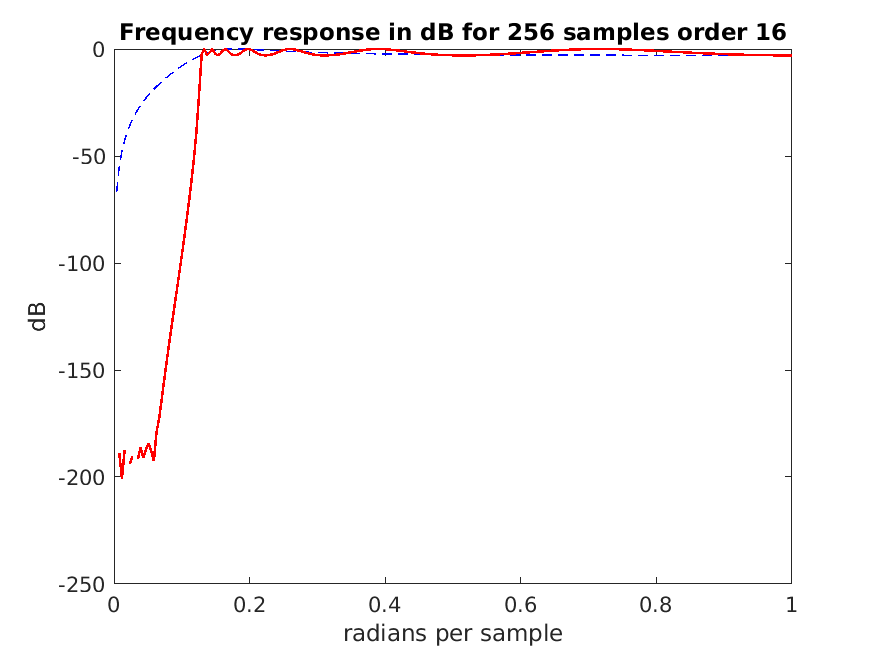
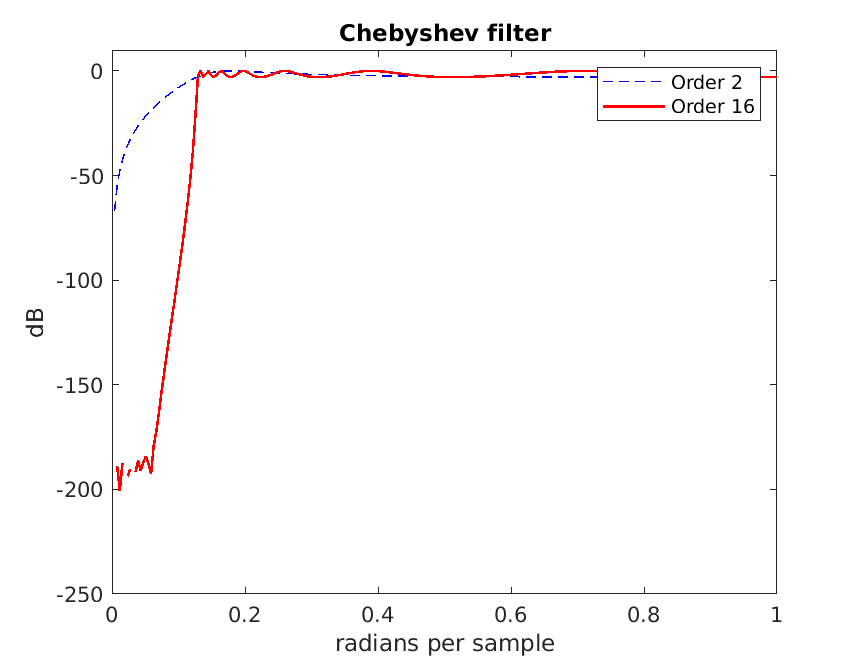
changed details

diff --git a/Seira3/Ask3.m b/Seira3/Ask3.m
@@ -3,6 +3,8 @@ clear all; clc;
 
 %%% filter from Ask1.m %%%
 fs = 10000;
+N=500;
+f = [-fs/2:fs/N:fs/2-fs/N]; % For frequency respones
 Ts = 1/fs;
 Wp = 2*pi*3000;     % Frequency passband rad/s
 Ws = 2*pi*4000;     % Frequency stopband rad/s
@@ -18,15 +20,29 @@ delta_s = 30;       % Attenuation
 
 samples = linspace(0, 499, 500);                                      %works like discrete time domain
 x1=1+cos(1000*samples*Ts)+cos(1600*samples*Ts)+cos(30000*samples*Ts); %signal x sampled
-figure();
+figure(1);
+subplot(2, 1, 1)
 stem(samples, x1);
 xlabel("n");
 ylabel("x(n)");
-title("Original x signal");
+title("Original x signal on time domain");
+X1 = fft(x1);
+subplot(2, 1, 2)
+stem(f, fftshift(X1));
+xlabel("F");
+ylabel("x(F)");
+title("Original x signal on frequency domain");
 
 x_filtered = filter(NUMz, DENz, x1);
-figure();
+figure(2);
+subplot(2, 1, 1);
 stem(samples, x_filtered);
+title("Filtered with att. band 30 db");
+xlabel("n")
+ylabel("x_{filtered}(n)")
+X_filtered = fft(x_filtered);
+subplot(2, 1, 2)
+stem(f, fftshift(X_filtered))
 title("Filtered with att. band 30 db")
 xlabel("n")
 ylabel("x_{filtered}(n)")
@@ -41,13 +57,20 @@ delta_s = 50;
 
 
 x_filtered2 = filter(NUMz, DENz, x1);
-figure();
+figure(3);
+subplot(2, 1, 1)
 stem(samples, x_filtered);
 title("Filtered with att. band 50 db")
 xlabel("n")
 ylabel("x_{filtered}(n)")
+X_filtered2 = fft(x_filtered);
+subplot(2, 1, 2)
+stem(f, fftshift(X_filtered2));
+title("Filtered with att. band 30 db")
+xlabel("n")
+ylabel("x_{filtered}(n)")
 
-figure();
+figure(4);
 stem(samples, (x_filtered2-x_filtered).^2);
 title("Square difference between attenuation bands")
 
@@ -63,20 +86,31 @@ d_ripple = 3;       %passband ripple in dB
 fc_dig = fc/(fs/2); %normalize frequency 
 [num2 , den2] = cheby1(N2, d_ripple, fc_dig, "high", "z");
 
-figure();
+figure(5);
+subplot(2, 1, 1)
 stem(samples, x2);
 xlabel("n")
 ylabel("x2(n)")
-title("Unfiltered x2 signal")
+title("Unfiltered x2 signal time dοmain")
+X2 = abs(fft(x2));
+subplot(2, 1, 2)
+stem(f, fftshift(X2));
+xlabel("F")
+ylabel("X2(F)")
+title("Unfiltered x2 signal frequency domain")
+X2 = fft(x2);
+
 
 x2_filtered = filter(num2, den2, x2);
-figure();
+figure(6);
+subplot(2, 1, 1)
 stem(samples, x2_filtered);
 xlabel("n")
 ylabel("x2_{filtered}(n)")
-title("Filtered x2 signal")
-
-
-
-
-
+title("Filtered x2 signal time domain")
+X2_filtered = abs(fft(x2_filtered));
+subplot(2, 1, 2)
+stem(f, fftshift(X2_filtered));
+xlabel("F")
+ylabel("x2_{filtered}(F)")
+title("Filtered x2 signal frequency domain")

diff --git a/Seira3/Ask2.m b/Seira3/Ask2.m
@@ -14,18 +14,16 @@ fc_dig = fc/(fs/2); %normalize frequency
 [hd, wd]=freqz(num1, den1, samples); %hd frequency response , wd angular frequency response
 
 w = [0:1/(samples-1):1]; %normalized
-figure();
+figure(1);
 plot(w, mag2db(abs(hd)), "Color", "b", "LineStyle","--", "LineWidth",0.7);
-title("Frequency response in dB for 256 samples order 2");
-ylabel("dB");
-xlabel("radians per sample");
 hold on;
 %%% b subquestion %%%
 N2= 16;
 [num2 , den2] = cheby1(N2, d_ripple, fc_dig, "high", "z");
 [hd2, wd2]=freqz(num2, den2, samples);
 plot(w, mag2db(abs(hd2)), "Color", "r", "LineWidth", 1.2);axis([0 1 -250 10])
-title("Frequency response in dB for 256 samples order 16");
+legend("Order 2","Order 16");
 ylabel("dB");
 xlabel("radians per sample");
+title("Chebyshev filter")
 
